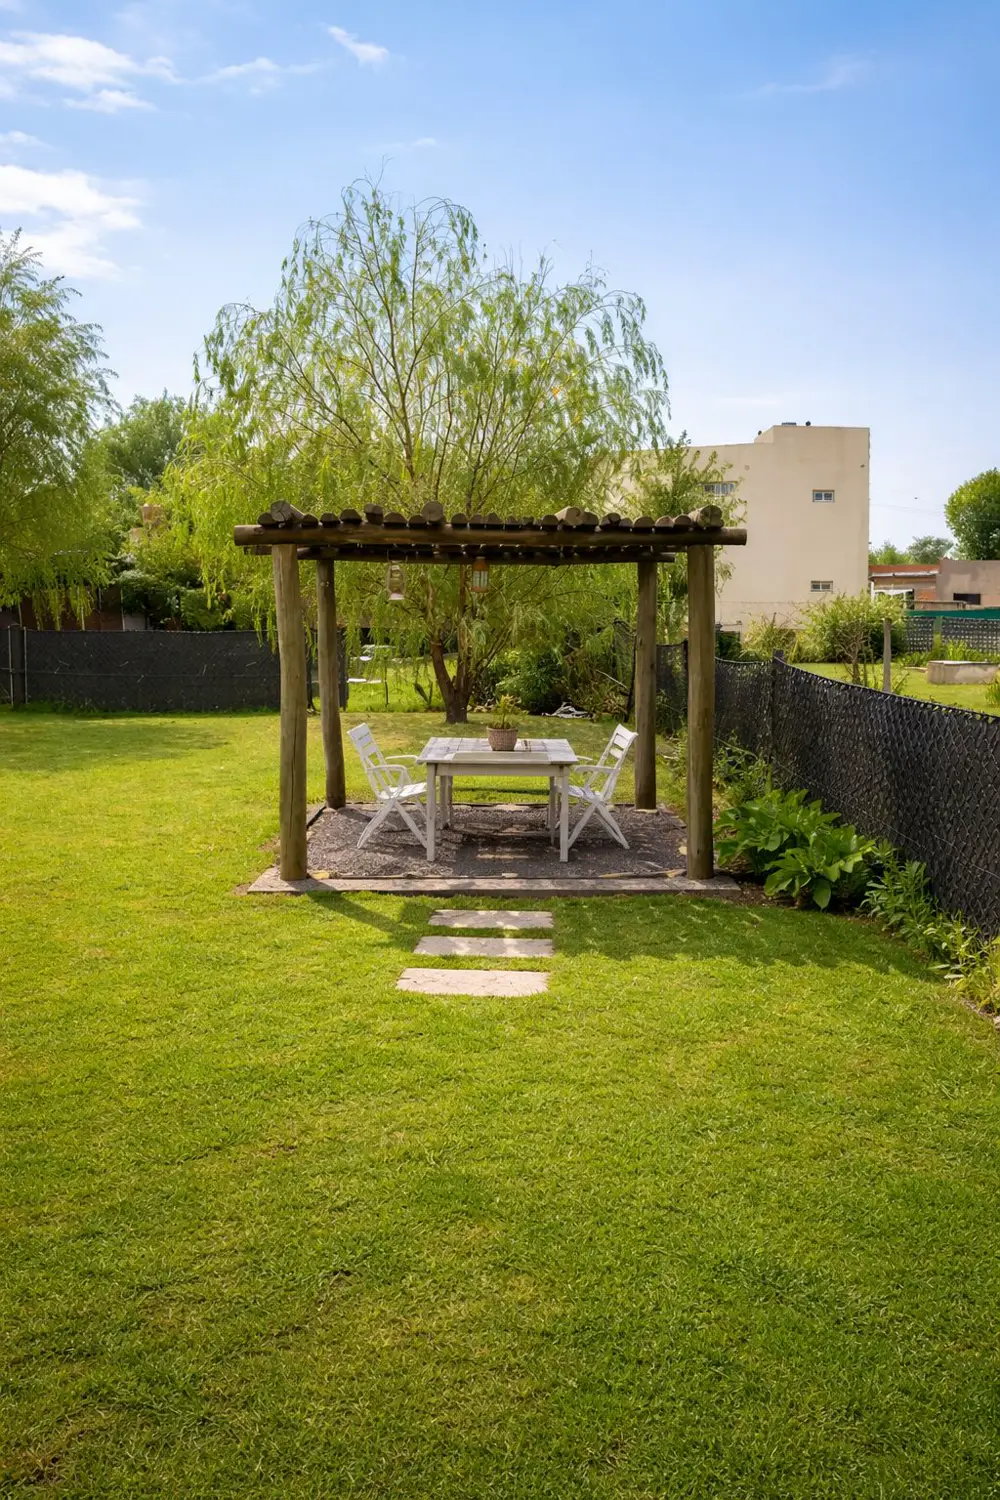
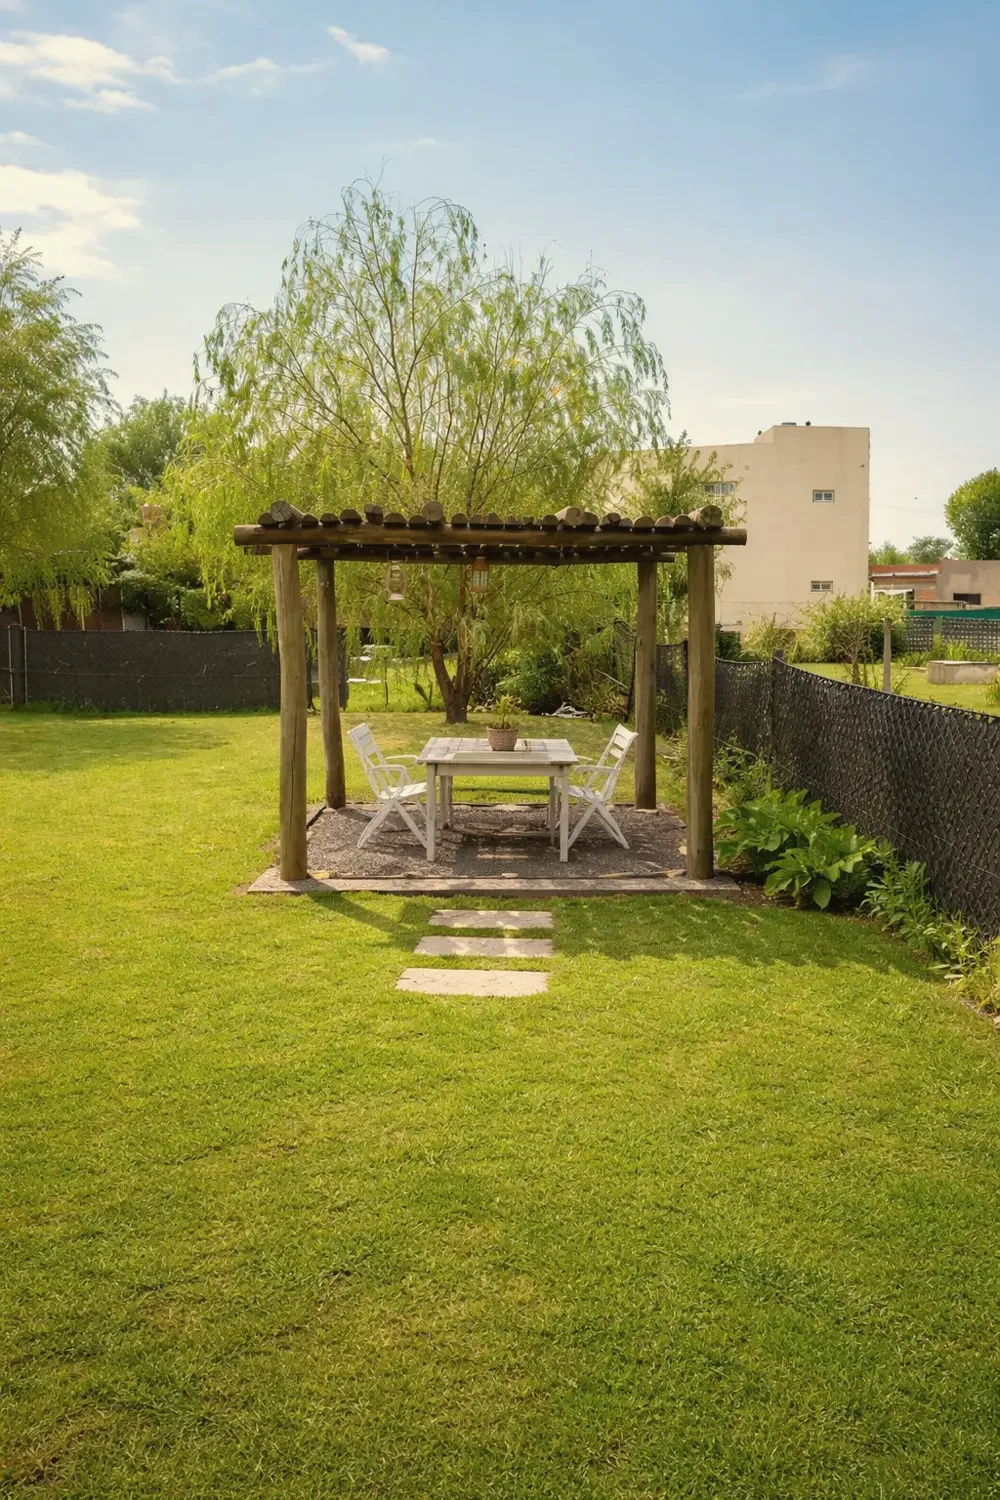
Galería: 5 trabajos nuevos y edición cálida unificada
- Nuevas fotos: tarima y pérgola, escalera antes / en obra / después y
  tarima de composite, con textos en los 6 idiomas
- Mismo retoque cálido aplicado a todas las fotos de la galería
- Recortes para quitar elementos que distraían (lona, mochila, tabla)

Claude-Session: https://claude.ai/code/session_01EbyefxARPeqq7tQk5GNv8y

Changed region(s): [[0.0, 0.0, 1.0, 0.368]]

diff --git a/src/i18n/translations.ts b/src/i18n/translations.ts
@@ -66,6 +66,16 @@ export const translations: Record<Language, Record<string, string>> = {
     "gallery.7.alt": "Portón verja de madera instalado en Altea",
     "gallery.8": "Caseta de madera",
     "gallery.8.alt": "Caseta de madera para montar en Altea",
+    "gallery.9": "Tarima y pérgola",
+    "gallery.9.alt": "Tarima de madera y estructura de pérgola en una casa de la Costa Blanca",
+    "gallery.10": "Escalera · antes",
+    "gallery.10.alt": "Escalera exterior de madera antigua antes de su renovación",
+    "gallery.11": "Escalera · en obra",
+    "gallery.11.alt": "Montaje de escalera exterior de composite sobre estructura de madera",
+    "gallery.12": "Escalera · después",
+    "gallery.12.alt": "Escalera exterior de composite terminada con barandilla de acero inoxidable",
+    "gallery.13": "Tarima de composite",
+    "gallery.13.alt": "Tarima de composite junto a la piscina con escalera de bajada al jardín",
 
     // Process
     "process.label": "Cómo trabajo",
@@ -155,6 +165,16 @@ export const translations: Record<Language, Record<string, string>> = {
     "gallery.7.alt": "Wooden gate installed in Altea",
     "gallery.8": "Wooden cabin",
     "gallery.8.alt": "Ready-to-assemble wooden cabin in Altea",
+    "gallery.9": "Deck and pergola",
+    "gallery.9.alt": "Wooden deck and pergola frame on a home on the Costa Blanca",
+    "gallery.10": "Staircase · before",
+    "gallery.10.alt": "Old outdoor wooden staircase before its renovation",
+    "gallery.11": "Staircase · in progress",
+    "gallery.11.alt": "Building an outdoor composite staircase on a timber frame",
+    "gallery.12": "Staircase · after",
+    "gallery.12.alt": "Finished outdoor composite staircase with stainless steel handrail",
+    "gallery.13": "Composite decking",
+    "gallery.13.alt": "Composite decking by the pool with steps down to the garden",
     "process.label": "How we work",
     "process.title.1": "How we work",
     "process.1.title": "Contact via WhatsApp",
@@ -238,6 +258,16 @@ export const translations: Record<Language, Record<string, string>> = {
     "gallery.7.alt": "Holztor in Altea installiert",
     "gallery.8": "Holzhütte",
     "gallery.8.alt": "Holzhütte zum Aufbauen in Altea",
+    "gallery.9": "Terrasse und Pergola",
+    "gallery.9.alt": "Holzterrasse und Pergolagerüst an einem Haus an der Costa Blanca",
+    "gallery.10": "Treppe · vorher",
+    "gallery.10.alt": "Alte Außentreppe aus Holz vor der Renovierung",
+    "gallery.11": "Treppe · im Bau",
+    "gallery.11.alt": "Bau einer Außentreppe aus Verbundwerkstoff auf Holzunterkonstruktion",
+    "gallery.12": "Treppe · nachher",
+    "gallery.12.alt": "Fertige Außentreppe aus Verbundwerkstoff mit Edelstahlgeländer",
+    "gallery.13": "WPC-Terrasse",
+    "gallery.13.alt": "WPC-Terrasse am Pool mit Treppe zum Garten",
     "process.label": "So arbeiten wir",
     "process.title.1": "So arbeiten wir",
     "process.1.title": "Kontakt über WhatsApp",
@@ -321,6 +351,16 @@ export const translations: Record<Language, Record<string, string>> = {
     "gallery.7.alt": "Houten poort geïnstalleerd in Altea",
     "gallery.8": "Houten hut",
     "gallery.8.alt": "Houten hut om te monteren in Altea",
+    "gallery.9": "Terras en pergola",
+    "gallery.9.alt": "Houten terras en pergolaframe bij een woning aan de Costa Blanca",
+    "gallery.10": "Trap · voor",
+    "gallery.10.alt": "Oude houten buitentrap vóór de renovatie",
+    "gallery.11": "Trap · in uitvoering",
+    "gallery.11.alt": "Bouw van een composiet buitentrap op een houten onderconstructie",
+    "gallery.12": "Trap · na",
+    "gallery.12.alt": "Afgewerkte composiet buitentrap met roestvrijstalen leuning",
+    "gallery.13": "Composiet terras",
+    "gallery.13.alt": "Composiet terras bij het zwembad met trap naar de tuin",
     "process.label": "Hoe wij werken",
     "process.title.1": "Hoe wij werken",
     "process.1.title": "Contact via WhatsApp",
@@ -404,6 +444,16 @@ export const translations: Record<Language, Record<string, string>> = {
     "gallery.7.alt": "Portail en bois installé à Altea",
     "gallery.8": "Cabane en bois",
     "gallery.8.alt": "Cabane en bois à monter à Altea",
+    "gallery.9": "Terrasse et pergola",
+    "gallery.9.alt": "Terrasse en bois et structure de pergola sur une maison de la Costa Blanca",
+    "gallery.10": "Escalier · avant",
+    "gallery.10.alt": "Ancien escalier extérieur en bois avant sa rénovation",
+    "gallery.11": "Escalier · en cours",
+    "gallery.11.alt": "Montage d'un escalier extérieur en composite sur structure bois",
+    "gallery.12": "Escalier · après",
+    "gallery.12.alt": "Escalier extérieur en composite terminé avec rampe en inox",
+    "gallery.13": "Terrasse en composite",
+    "gallery.13.alt": "Terrasse en composite au bord de la piscine avec escalier vers le jardin",
     "process.label": "Comment nous travaillons",
     "process.title.1": "Comment nous travaillons",
     "process.1.title": "Contact via WhatsApp",
@@ -487,6 +537,16 @@ export const translations: Record<Language, Record<string, string>> = {
     "gallery.7.alt": "Cancello in legno installato ad Altea",
     "gallery.8": "Casetta in legno",
     "gallery.8.alt": "Casetta in legno da montare ad Altea",
+    "gallery.9": "Pedana e pergola",
+    "gallery.9.alt": "Pedana in legno e struttura di pergola in una casa sulla Costa Blanca",
+    "gallery.10": "Scala · prima",
+    "gallery.10.alt": "Vecchia scala esterna in legno prima della ristrutturazione",
+    "gallery.11": "Scala · in corso",
+    "gallery.11.alt": "Montaggio di una scala esterna in composito su struttura in legno",
+    "gallery.12": "Scala · dopo",
+    "gallery.12.alt": "Scala esterna in composito finita con corrimano in acciaio inox",
+    "gallery.13": "Pedana in composito",
+    "gallery.13.alt": "Pedana in composito a bordo piscina con scala verso il giardino",
     "process.label": "Come lavoriamo",
     "process.title.1": "Come lavoriamo",
     "process.1.title": "Contatto via WhatsApp",

diff --git a/src/components/Gallery.tsx b/src/components/Gallery.tsx
@@ -5,6 +5,11 @@ import galleryCaseta from "@/assets/gallery-caseta.webp";
 import gallery1 from "@/assets/gallery-1.webp";
 import gallery2 from "@/assets/gallery-2.webp";
 import galleryPergola from "@/assets/gallery-pergola.webp";
+import galleryDeckPergola from "@/assets/gallery-deck-pergola.webp";
+import galleryEscaleraAntes from "@/assets/gallery-escalera-antes.webp";
+import galleryEscaleraObra from "@/assets/gallery-escalera-obra.webp";
+import galleryEscaleraDespues from "@/assets/gallery-escalera-despues.webp";
+import galleryDeckComposite from "@/assets/gallery-deck-composite.webp";
 import video1 from "@/assets/video-1.mp4";
 import video2 from "@/assets/video-2.mp4";
 import galleryBg from "@/assets/gallery-bg.mp4";
@@ -27,6 +32,12 @@ const Gallery = () => {
     // Row 3: pérgola (ancha) + video proceso
     { type: "image", src: galleryPergola, alt: "Pérgola de madera exterior", labelKey: "gallery.4", altKey: "gallery.4.alt", span: "md:col-span-2" },
     { type: "video", src: video2, labelKey: "gallery.6", altKey: "gallery.6.alt" },
+    // Row 4-5: tarima y pérgola (alta) + escalera antes / en obra / después + tarima composite
+    { type: "image", src: galleryDeckPergola, alt: "Tarima y pérgola", labelKey: "gallery.9", altKey: "gallery.9.alt", span: "md:col-span-1 md:row-span-2" },
+    { type: "image", src: galleryEscaleraAntes, alt: "Escalera antes", labelKey: "gallery.10", altKey: "gallery.10.alt" },
+    { type: "image", src: galleryEscaleraObra, alt: "Escalera en obra", labelKey: "gallery.11", altKey: "gallery.11.alt" },
+    { type: "image", src: galleryEscaleraDespues, alt: "Escalera después", labelKey: "gallery.12", altKey: "gallery.12.alt" },
+    { type: "image", src: galleryDeckComposite, alt: "Tarima de composite", labelKey: "gallery.13", altKey: "gallery.13.alt" },
   ];
 
   return (
